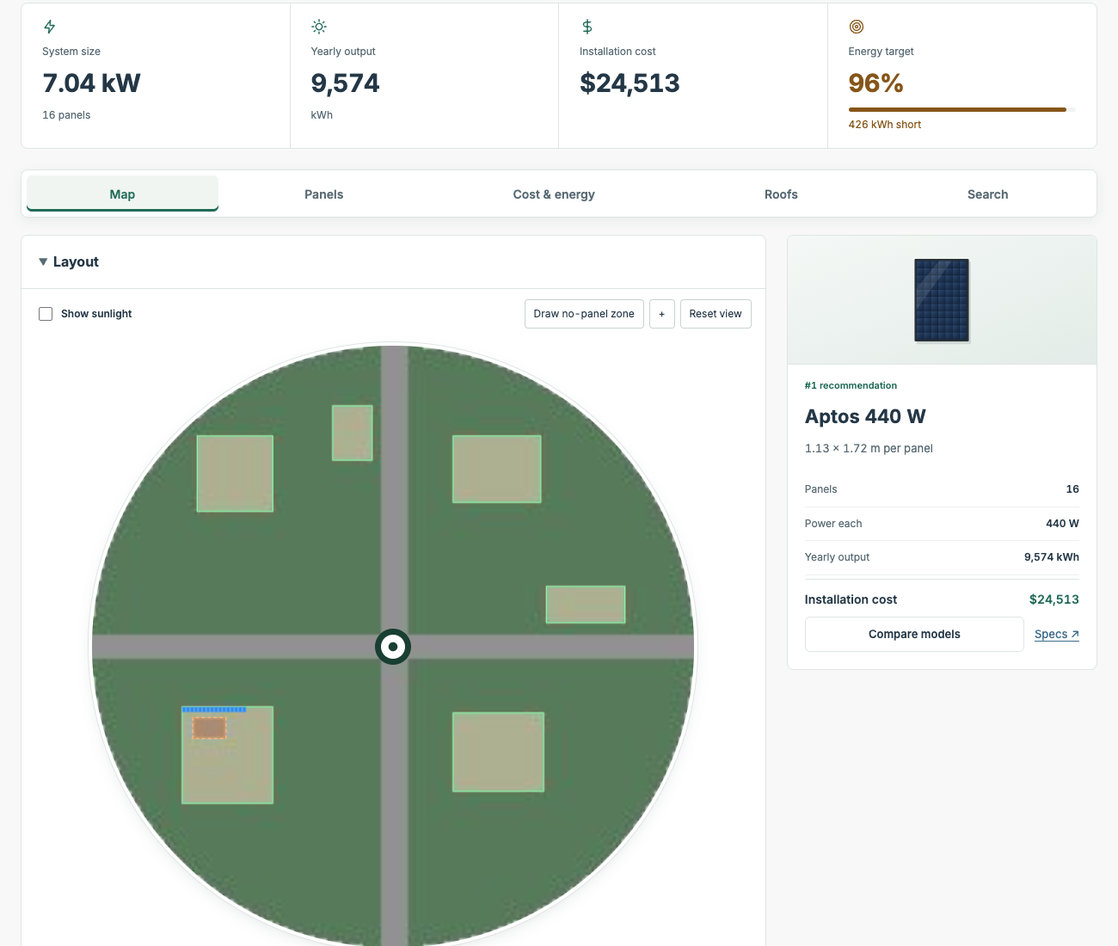
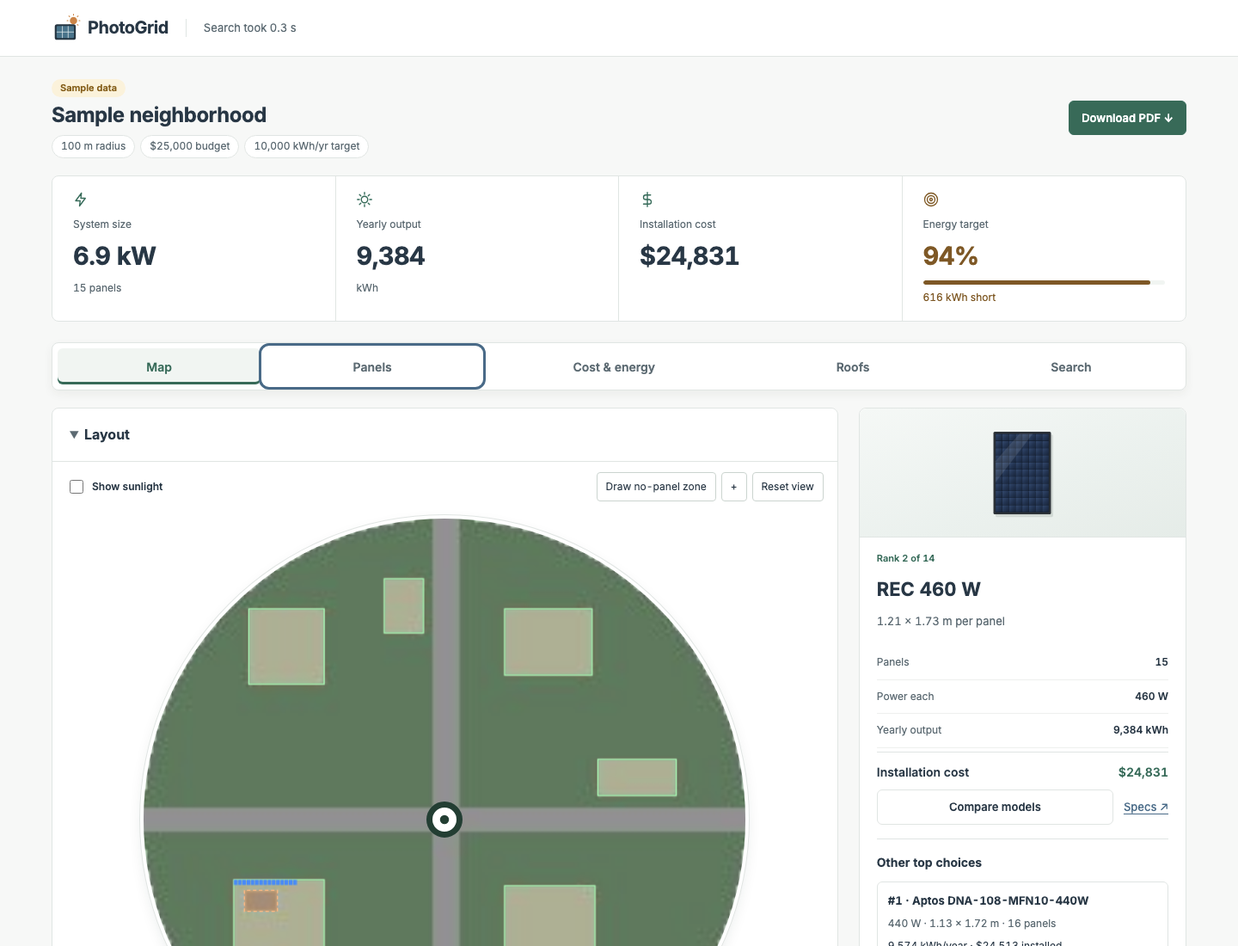
Rebrand as PhotoGrid and prepare public demo deployment

diff --git a/templates/index.html b/templates/index.html
@@ -2,9 +2,10 @@
 <html lang="en">
 <head>
   <meta charset="utf-8"><meta name="viewport" content="width=device-width, initial-scale=1">
-  <title>RoofReady · Solar planning</title>
+  <title>PhotoGrid · Solar planning</title>
+  <meta name="description" content="PhotoGrid compares real solar panels and plots layouts for your budget, roof space and energy needs.">
   <meta name="theme-color" content="#203542">
-  <link rel="icon" href="/static/roofready-mark.svg" type="image/svg+xml">
+  <link rel="icon" href="/static/photogrid-mark.svg" type="image/svg+xml">
   <!-- Inter for clearer numbers and labels; falls back to the system font offline. -->
   <link rel="preconnect" href="https://fonts.googleapis.com"><link rel="preconnect" href="https://fonts.gstatic.com" crossorigin>
   <link rel="stylesheet" href="https://fonts.googleapis.com/css2?family=Inter:wght@400;500;600;700&display=swap">
@@ -15,11 +16,12 @@
 </head>
 <body>
   <header class="site-header">
-    <a class="brand" href="/" aria-label="RoofReady home"><img src="/static/roofready-mark.svg" width="34" height="34" alt=""><span>RoofReady</span></a>
+    <a class="brand" href="/photogrid" aria-label="PhotoGrid home"><img src="/static/photogrid-mark.svg" width="34" height="34" alt=""><span>PhotoGrid</span></a>
     <span id="search-time" class="header-note" role="status" hidden></span>
   </header>
   <main>
     <section id="intro" class="intro"><h1>Plan solar for your area</h1><p>Enter an address, a budget and your yearly energy need.</p></section>
+    {% if hosted %}<p class="hint">Shared hackathon demo: use the sample area or public addresses. Saved searches are visible to other visitors and may reset.</p>{% endif %}
     <div class="workspace">
       <section class="results" aria-label="Analysis map and selected panel">
         <p id="status" class="toast" role="status" aria-live="polite"></p>
@@ -145,9 +147,9 @@
       </section>
     </div>
   </main>
-  <footer>RoofReady · Solar estimates for planning. Verify your layout with an installer.</footer>
+  <footer>PhotoGrid · Solar estimates for planning. Verify your layout with an installer.</footer>
   <div id="loading-screen" class="loading-screen" role="dialog" aria-modal="true" aria-labelledby="loading-title" aria-describedby="loading-message" tabindex="-1" hidden>
-    <div class="loading-card"><div class="loading-brand"><img src="/static/roofready-mark.svg" width="48" height="48" alt=""><span>RoofReady</span></div>
+    <div class="loading-card"><div class="loading-brand"><img src="/static/photogrid-mark.svg" width="48" height="48" alt=""><span>PhotoGrid</span></div>
       <div class="loading-track" aria-hidden="true"><span></span></div>
       <h2 id="loading-title">Checking your search area</h2><p id="loading-area"></p><p id="loading-message" role="status" aria-live="polite">Preparing your analysis…</p>
       <ol id="loading-steps"><li data-stage="0">Locate the address</li><li data-stage="1">Load aerial and sunlight data</li><li data-stage="2">Find candidate roofs</li><li data-stage="3">Compare panels and layouts</li></ol>

diff --git a/static/app.js b/static/app.js
@@ -54,8 +54,8 @@ function setDrawMode(on) {
   renderZones();
 }
 async function analyze(demo=false) {
-  window.roofreadyAddress?.close();
-  window.roofreadyLoading.start(demo ? 'Synthetic roofs and sunlight data' : $('address').value.trim(),demo);
+  window.photogridAddress?.close();
+  window.photogridLoading.start(demo ? 'Synthetic roofs and sunlight data' : $('address').value.trim(),demo);
   $('error').hidden=true; busy(true);
   toast(demo ? 'Preparing the sample area…' : 'Starting your search…',true);
   const newSearchInputs={...planInputs(), excluded_roof_ids:[], blocked_zones:[]};
@@ -71,7 +71,7 @@ async function analyze(demo=false) {
     currentJob=data.job_id;
     await poll(currentJob);
   } catch(e) { error(e.message); }
-  finally { busy(false);window.roofreadyLoading.finish(); }
+  finally { busy(false);window.photogridLoading.finish(); }
 }
 // Status checks ride out brief network blips (three retries with backoff) before giving up.
 async function jobStatus(job){
@@ -86,7 +86,7 @@ async function jobStatus(job){
 }
 async function poll(job,preserveView=false) {
   while(true) {
-    const state=await jobStatus(job); window.roofreadyLoading.update(state.message);
+    const state=await jobStatus(job); window.photogridLoading.update(state.message);
     if(state.status==='failed') throw new Error(state.message);
     if(state.status==='complete') { render(state.result,job,preserveView); toast(''); await loadHistory(); return; }
     await new Promise(resolve=>setTimeout(resolve,400));
@@ -429,7 +429,7 @@ async function loadHistory() {
   try {
     const response=await fetch('/api/history'); if(!response.ok)return;
     const runs=await response.json();
-    window.roofreadyAddress?.setRecent(runs.filter(run=>!run.demo).map(run=>run.address));
+    window.photogridAddress?.setRecent(runs.filter(run=>!run.demo).map(run=>run.address));
     $('history').replaceChildren(new Option('Choose an analysis',''));
     const when=value=>value ? new Date(value).toLocaleString(undefined,{month:'short',day:'numeric',hour:'numeric',minute:'2-digit'}) : '';
     for(const run of runs) $('history').append(new Option([run.demo?'Sample area':run.address,run.radius_meters?`${format(run.radius_meters)} m`:'',when(run.completed_at)].filter(Boolean).join(' · '),run.job_id));

diff --git a/static/loading.js b/static/loading.js
@@ -20,7 +20,7 @@
       if(i===stage)element.setAttribute('aria-current','step');else element.removeAttribute('aria-current');
     });
   }
-  window.roofreadyLoading={
+  window.photogridLoading={
     start(area,demo=false){
       clearInterval(timer);started=Date.now();stage=0;returnFocus=document.activeElement;
       document.getElementById('loading-title').textContent=demo ? 'Building the sample area' : 'Checking your search area';

diff --git a/static/address.js b/static/address.js
@@ -62,5 +62,5 @@
     else if(event.key==='Tab')close();
   });
   document.getElementById('api-key').addEventListener('change',()=>{if(document.activeElement===input)schedule();});
-  window.roofreadyAddress={close,setRecent(addresses){recent=[...new Set(addresses)];}};
+  window.photogridAddress={close,setRecent(addresses){recent=[...new Set(addresses)];}};
 })();

diff --git a/test_hosting.py b/test_hosting.py
@@ -1,0 +1,65 @@
+"""Hosted origin and hostname checks, without Google requests."""
+
+import os
+import tempfile
+import unittest
+from unittest.mock import patch
+
+from roofready_app import create_app
+
+
+class HostingTests(unittest.TestCase):
+    def setUp(self):
+        self.folder = tempfile.TemporaryDirectory()
+
+    def tearDown(self):
+        self.folder.cleanup()
+
+    def make_app(self, hostname=""):
+        with patch.dict(os.environ, {"RENDER_EXTERNAL_HOSTNAME": hostname}):
+            app = create_app(self.folder.name)
+        self.addCleanup(app.extensions["roofready_executor"].shutdown, wait=True)
+        return app
+
+    def test_local_mode_does_not_accept_public_hosts_or_forwarded_https(self):
+        client = self.make_app().test_client()
+        self.assertEqual(client.get("/health", base_url="https://evil.example").status_code, 400)
+        response = client.post(
+            "/api/address-suggestions",
+            json={"query": "x"},
+            headers={"Origin": "https://localhost", "X-Forwarded-Proto": "https"},
+        )
+        self.assertEqual(response.status_code, 403)
+
+    def test_render_https_accepts_same_origin_and_rejects_other_origins(self):
+        client = self.make_app("photogrid-example.onrender.com").test_client()
+        base = "http://photogrid-example.onrender.com"
+        headers = {"Origin": "https://photogrid-example.onrender.com", "X-Forwarded-Proto": "https"}
+        response = client.post("/api/address-suggestions", base_url=base, headers=headers, json={"query": "x"})
+        self.assertEqual(response.status_code, 400)  # Reaches input validation, no Google call.
+        for origin in ("https://evil.example", "http://photogrid-example.onrender.com", ""):
+            response = client.post(
+                "/api/address-suggestions", base_url=base, headers={**headers, "Origin": origin}, json={"query": "x"}
+            )
+            self.assertEqual(response.status_code, 403)
+
+    def test_forwarded_host_cannot_override_host_allowlist(self):
+        client = self.make_app("photogrid-example.onrender.com").test_client()
+        response = client.get(
+            "/health", base_url="http://evil.example", headers={"X-Forwarded-Host": "photogrid-example.onrender.com"}
+        )
+        self.assertEqual(response.status_code, 400)
+
+    def test_health_and_branded_route_in_hosted_mode(self):
+        client = self.make_app("photogrid-example.onrender.com").test_client()
+        base = "https://photogrid-example.onrender.com"
+        self.assertEqual(client.get("/health", base_url=base).get_json(), {"status": "ok", "app": "PhotoGrid"})
+        page = client.get("/photogrid", base_url=base)
+        self.assertEqual(page.status_code, 200)
+        self.assertIn(b"Shared hackathon demo", page.data)
+        self.assertIn(b"PhotoGrid", page.data)
+        self.assertNotIn(b"RoofReady", page.data)
+
+
+if __name__ == "__main__":
+    unittest.main()

diff --git a/roofready_app.py b/roofready_app.py
@@ -1,4 +1,4 @@
-"""Local RoofReady dashboard. Run with .venv/bin/python roofready_app.py."""
+"""Local PhotoGrid dashboard. Run with .venv/bin/python roofready_app.py."""
 
 import argparse
 from copy import deepcopy
@@ -13,6 +13,7 @@ import time
 import traceback
 
 from flask import Flask, abort, jsonify, render_template, request, send_from_directory, send_file
+from werkzeug.middleware.proxy_fix import ProxyFix
 
 from address_autocomplete import address_predictions
 from demo_roofready import run_demo
@@ -33,8 +34,15 @@ def resolve_key(supplied=""):
 
 def create_app(output_root=None):
     app = Flask(__name__)
-    app.config.update(MAX_CONTENT_LENGTH=16384, TRUSTED_HOSTS=["localhost", "127.0.0.1"])
-    output_root = Path(output_root or ROOT / "outputs")
+    render_host = os.environ.get("RENDER_EXTERNAL_HOSTNAME", "").strip()
+    trusted_hosts = ["localhost", "127.0.0.1"]
+    if render_host:
+        trusted_hosts.append(render_host)
+        # Render terminates HTTPS before forwarding to Gunicorn. Trust its one
+        # scheme header; keep host validation and the same-origin POST check.
+        app.wsgi_app = ProxyFix(app.wsgi_app, x_for=0, x_proto=1, x_host=0, x_port=0, x_prefix=0)
+    app.config.update(MAX_CONTENT_LENGTH=16384, TRUSTED_HOSTS=trusted_hosts)
+    output_root = Path(output_root or os.environ.get("PHOTOGRID_OUTPUT_ROOT") or ROOT / "outputs")
     jobs = {}
     lock = Lock()
     executor = ThreadPoolExecutor(max_workers=1)
@@ -75,9 +83,14 @@ def create_app(output_root=None):
             abort(403)
 
     @app.get("/")
+    @app.get("/photogrid")
     def index():
         key = resolve_key()
-        return render_template("index.html", configured=bool(key))
+        return render_template("index.html", configured=bool(key), hosted=bool(render_host))
+
+    @app.get("/health")
+    def health():
+        return jsonify(status="ok", app="PhotoGrid")
 
     @app.post("/api/address-suggestions")
     def suggest_addresses():
@@ -266,7 +279,7 @@ def create_app(output_root=None):
         except InputError as exc:
             return jsonify(error=str(exc)), 400
         return send_file(
-            output, mimetype="application/pdf", as_attachment=True, download_name=f"roofready-{job_id}.pdf", max_age=0
+            output, mimetype="application/pdf", as_attachment=True, download_name=f"photogrid-{job_id}.pdf", max_age=0
         )
 
     @app.post("/api/addresses/<job_id>")

diff --git a/solar_report.py b/solar_report.py
@@ -108,7 +108,7 @@ class PDFPages:
         self.draw = ImageDraw.Draw(self.image)
         self.pages.append(self.image)
         self.draw.rectangle((0, 0, self.width, 12), fill='#246b60')
-        self.draw.text((self.margin, 30), 'RoofReady  /  Solar planning report', font=font(23, True), fill='#315e82')
+        self.draw.text((self.margin, 30), 'PhotoGrid  /  Solar planning report', font=font(23, True), fill='#315e82')
         self.y = 100
 
     def text(self, text, size=25, bold=False, color='#203542'):
@@ -176,8 +176,8 @@ class PDFPages:
             save_all=True,
             append_images=self.pages[1:],
             resolution=150,
-            title='RoofReady Solar Planning Report',
-            author='RoofReady',
+            title='PhotoGrid Solar Planning Report',
+            author='PhotoGrid',
         )
         output.seek(0)
         return output

diff --git a/test_address_autocomplete.py b/test_address_autocomplete.py
@@ -109,7 +109,7 @@ class AddressRouteTests(unittest.TestCase):
         self.assertEqual(response.get_json()['suggestions'][0]['source'], 'google')
         predict.assert_called_once_with('Main', 'test-key')
         self.assertNotIn('test-key', response.get_data(as_text=True))
-        for asset in ('roofready-mark.svg', 'address.js', 'loading.js'):
+        for asset in ('photogrid-mark.svg', 'address.js', 'loading.js'):
             response = self.client.get('/static/' + asset)
             self.assertEqual(response.status_code, 200)
             response.close()

diff --git a/README.md b/README.md
@@ -1,10 +1,16 @@
-# RoofReady
+# PhotoGrid
 
 **See what solar fits on every roof in a neighborhood, within your budget, in under a minute.**
 
-Enter a U.S. address, a search radius, a budget and how much electricity you need. RoofReady pulls Google's aerial imagery and sunlight data for the whole circle, finds every roof, flags panels that are already installed, and lays out real, purchasable solar panels on the sunniest open roof space. It compares 14 rooftop panel models from a sourced catalog, shows the installation cost, bill savings, payback and CO₂ avoided, and exports a PDF report. It runs entirely on your own computer; your Google key is never stored.
+Enter a U.S. address, a search radius, a budget and how much electricity you need. PhotoGrid pulls Google's aerial imagery and sunlight data for the whole circle, finds every roof, flags panels that are already installed, and lays out real, purchasable solar panels on the sunniest open roof space. It compares 14 rooftop panel models from a sourced catalog, shows the installation cost, bill savings, payback and CO₂ avoided, and exports a PDF report. Run it locally or deploy the shared hackathon demo. Your local Google key stays in the ignored `.env` file and is never included in Git, saved searches or reports.
 
-![RoofReady results for the sample area](docs/screenshot.png)
+![PhotoGrid results for the sample area](docs/screenshot.png)
+
+[Deploy PhotoGrid on Render](https://render.com/deploy?repo=https://github.com/rishancoding/PHS-Hackathon-LHS) · [Public website setup](docs/DEPLOYMENT.md)
+
+The public website is not deployed yet. The included `render.yaml` names the
+service `photogrid`; Render assigns its final URL after you connect your account.
+The shared hosted demo starts without a Google key and supports the sample area.
 
 ## Quick start
 
@@ -15,7 +21,7 @@ cp .env.example .env            # then put your key in .env: GOOGLE_MAPS_API_KEY
 .venv/bin/python roofready_app.py
 ```
 
-Open **http://127.0.0.1:5001**. Click **Try the sample area** to explore with clearly labeled synthetic data and no Google requests, or enter an address and click **Find roofs and panels**.
+Open **http://127.0.0.1:5001/photogrid** (the original `/` address also works). Click **Try the sample area** to explore with clearly labeled synthetic data and no Google requests, or enter an address and click **Find roofs and panels**.
 
 Requirements: Python 3.10 or newer, and a Google Cloud key with the **Geocoding**, **Solar** and **Places (New)** APIs enabled. Google Maps Platform is billed per request; restrict the key to those three APIs and set a daily quota and budget alert in Google Cloud. To use another port: `.venv/bin/python roofready_app.py --port 5002`. Stop the server with Control+C.
 
@@ -34,7 +40,7 @@ Other features: address suggestions as you type, recent searches as suggestions,
 ## How it works
 
 1. **Locate:** Google Geocoding resolves the address and checks it is in the lower 48 states or DC.
-2. **Download:** the Google Solar API returns four layers for the circle: aerial imagery, a rooftop mask, yearly sunlight (kWh/kW/year) and elevation. If Google has no high-quality imagery for the area, RoofReady retries once with medium quality and says so under the map. A repeat search of the same center and radius reuses the saved layers, so it takes about 3 seconds instead of about 40.
+2. **Download:** the Google Solar API returns four layers for the circle: aerial imagery, a rooftop mask, yearly sunlight (kWh/kW/year) and elevation. If Google has no high-quality imagery for the area, PhotoGrid retries once with medium quality and says so under the map. A repeat search of the same center and radius reuses the saved layers, so it takes about 3 seconds instead of about 40.
 3. **Find roofs:** the layers are aligned on a local meter grid and clipped to the circle; connected regions of Google's rooftop mask become candidate roofs (10 m² minimum), ranked by theoretical potential.
 4. **Flag existing panels:** a color-and-texture check marks slate-blue, panel-shaped areas on roofs so new panels avoid them.
 5. **Place panels:** for each of the 14 rooftop models, the planner fills the sunniest roofs first. On each roof it aligns a grid with the building, tries both module orientations with 0.2 m gaps, keeps panels fully inside the outline and away from flagged and blocked areas, and fills the sunniest spots first using the per-pixel sunlight. It stops at your energy target, budget, panel-area cap or the available space.
@@ -56,7 +62,7 @@ Timing: a first live search takes about 40 seconds, about 93% of it downloading 
 
 ## Data, privacy and saved searches
 
-The server runs only on localhost and rejects requests from other sites. API keys are used only for the request that needs them and never written to job state, results or logs (unexpected errors are logged to the terminal with the key removed). Searches are saved under `outputs/` (ignored by Git) with the downloaded layers, so they reopen and re-plan without new requests. **Reuse saved imagery** (under Assumptions, on by default) can be turned off for a fresh download; check Google's terms on how long imagery may be kept. Deleting a folder in `outputs/` removes that saved search.
+The local server accepts only localhost and rejects POST requests from other sites. The optional Render deployment accepts its assigned hostname and retains the same-origin requirement. API keys are used only for the request that needs them and never written to job state, results or logs (unexpected errors are logged to the terminal with the key removed). Searches are saved under `outputs/` (ignored by Git) with the downloaded layers, so they reopen and re-plan without new requests. **Reuse saved imagery** (under Assumptions, on by default) can be turned off for a fresh download; check Google's terms on how long imagery may be kept. Deleting a folder in `outputs/` removes that saved search.
 
 ## Development
 

diff --git a/docs/PITCH.md b/docs/PITCH.md
@@ -1,18 +1,18 @@
-# RoofReady pitch and demo plan
+# PhotoGrid pitch and demo plan
 
 ## One-line pitch
 
-RoofReady shows what solar fits on every roof in a neighborhood, using real panels you can buy, within your budget, and what it would save, in under a minute.
+PhotoGrid shows what solar fits on every roof in a neighborhood, using real panels you can buy, within your budget, and what it would save, in under a minute.
 
 ## Why it matters
 
 - Most homeowners never get past "is my roof any good for solar?" Quotes take days and cover one house.
-- RoofReady answers it for a whole area at once: every roof, existing panels, a real layout, cost, savings and CO₂.
+- PhotoGrid answers it for a whole area at once: every roof, existing panels, a real layout, cost, savings and CO₂.
 - Average U.S. home: about 10,400 kWh a year (EIA). The default 10,000 kWh target is roughly one home.
 
 ## How it differs from Google Project Sunroof
 
-| | Project Sunroof | RoofReady |
+| | Project Sunroof | PhotoGrid |
 | --- | --- | --- |
 | Scope | One building | Every roof in a radius up to 1 km |
 | Panels | Generic | 14 real catalog models with datasheets and prices |
@@ -29,7 +29,7 @@ RoofReady shows what solar fits on every roof in a neighborhood, using real pane
 - Residential panels change the answer: with a $25,000 budget and 10,000 kWh target, the top three (Silfab, Aptos, REC) meet the target with about 16 panels at roughly $3.50/W installed; the old off-grid panels all fell short at about $4/W.
 - Sample area (synthetic, California prices): about $3,100 a year in bill savings, about an 8-year simple payback, about 6 t CO₂ avoided per year.
 - Existing-panel detection on 48 hand-labeled roofs from 7 sites: 73% correct (68% precision, 65% recall). Say the labels were made by eye.
-- 79 automated tests run offline in about 3 seconds; API keys are never written to disk or logs.
+- 83 automated tests run offline; API keys are excluded from saved results, reports and logs; the local key lives in an ignored `.env` file.
 
 ## Three-minute demo script
 
@@ -39,7 +39,7 @@ RoofReady shows what solar fits on every roof in a neighborhood, using real pane
 4. **Panels (30 s):** scroll the cards; open **Compare two models** and point at the ✓ Better marks.
 5. **Cost & energy (20 s):** installation cost vs budget, then the Impact card: bill savings, payback, CO₂.
 6. **PDF (10 s):** **Download PDF**.
-7. **Close (15 s):** one honest limit (it doesn't detect rooftop equipment or slope, which is why zones exist), the accuracy number, and "runs locally; 79 offline tests".
+7. **Close (15 s):** one honest limit (it doesn't detect rooftop equipment or slope, which is why zones exist), the accuracy number, and "runs locally; 83 offline tests".
 
 Show a shortfall case on purpose if time allows: lower the budget on the Search tab and click **Update plan**.
 
@@ -56,7 +56,7 @@ Show a shortfall case on purpose if time allows: lower the budget on the Search 
 - *Why not machine learning?* We needed something explainable and measurable in a weekend; we measured it (73%) and know where it fails. A trained model is the next step.
 - *Where do the numbers come from?* Every source is listed on the Cost & energy tab under Methods & assumptions.
 - *Does it cost money?* Each live search costs a few Google API calls; repeat searches reuse saved imagery.
-- *Is my data safe?* It runs on this laptop; nothing leaves except the Google requests, and the key is never saved.
+- *Is my data safe?* It runs on this laptop; nothing leaves except the Google requests, and the key is excluded from saved results and reports.
 
 ## Night-before checklist
 

diff --git a/docs/DEPLOYMENT.md b/docs/DEPLOYMENT.md
@@ -1,0 +1,38 @@
+# Publish PhotoGrid
+
+The repository includes a Render Blueprint for the full Python app. It has not
+been deployed yet; creating the public service requires your Render/GitHub login.
+
+1. Open [Deploy PhotoGrid on Render](https://render.com/deploy?repo=https://github.com/rishancoding/PHS-Hackathon-LHS).
+2. Sign in, connect this GitHub repository, and deploy the Blueprint from **main**.
+   Keep the service name **photogrid** and the **Free** plan from `render.yaml`.
+3. After the build succeeds, open the service's assigned `onrender.com` URL.
+   Render assigns the final hostname; it may include a suffix. Keep `photogrid`
+   in the service name. The app also works at `/photogrid` on that hostname.
+4. Click **Try the sample area** to test roof detection, panel previews, no-panel
+   zones, model comparisons and the PDF without Google requests.
+
+The Blueprint installs `requirements-hosted.txt` and runs Gunicorn with one
+worker and four threads. One worker is required because job state is held in
+memory. The app accepts Render's assigned hostname, handles HTTPS forwarded by
+Render, and still rejects POST requests from other origins. `/health` is its
+health-check endpoint.
+
+## Keys and saved searches
+
+Your local `.env` stays ignored and is not uploaded. The Blueprint leaves
+`GOOGLE_MAPS_API_KEY` empty. A visitor who wants a live search must supply a Google
+key in the existing input; it is used for that request and excluded from saved
+results and reports. Do not put your personal key into the shared public demo.
+
+This is a shared hackathon demo: saved searches and reports are accessible to
+other visitors. Use the sample area or public addresses. The page shows this
+notice when hosted. Free hosting has ephemeral files; saved imagery and searches
+can disappear after restarts or redeploys. It also sleeps when idle, so open it
+before judging and keep a local demo and downloaded PDF ready. Larger live
+searches can exceed the free service's memory; the sample is the best first check.
+
+Provider references: [Flask deployment](https://render.com/docs/deploy-flask),
+[Blueprint configuration](https://render.com/docs/blueprint-spec),
+[free service limitations](https://render.com/docs/free), and
+[Render environment variables](https://render.com/docs/environment-variables).

diff --git a/CLAUDE.md b/CLAUDE.md
@@ -6,7 +6,7 @@ This file provides guidance to Claude Code (claude.ai/code) when working with co
 
 ```sh
 python3 -m venv .venv && .venv/bin/python -m pip install -r requirements.txt   # setup
-.venv/bin/python roofready_app.py                 # dashboard at http://127.0.0.1:5001 (--port to change)
+.venv/bin/python roofready_app.py                 # PhotoGrid at http://127.0.0.1:5001/photogrid (--port to change)
 .venv/bin/python -m unittest -v                   # all tests (offline; no API key needed)
 .venv/bin/python -m unittest -v test_panel_plan   # one test module
 .venv/bin/python -m unittest test_panel_plan.SomeTestCase.test_name   # one test
@@ -31,6 +31,6 @@ Pipeline, in dependency order:
 The central data structure is the `result` dict. Each stage mutates it in place and it is persisted as `outputs/<job_id>/results.json`. When you add fields, account for older saved analyses: on startup the app reloads every folder in `outputs/` that contains `results.json`.
 
 **`roofready_app.py`** uses a `create_app(output_root)` factory, which tests call with a temp directory. Jobs live in an in-memory dict guarded by a `Lock`. A single-worker `ThreadPoolExecutor` enforces one running analysis at a time, and the frontend polls `/api/jobs/<id>`. Replanning (`/api/plan`), roof-address lookup, and PDF export reuse saved results without new Solar requests. Security invariants to preserve:
-- POST requests must carry a same-origin `Origin` header, and `TRUSTED_HOSTS` is limited to localhost.
+- POST requests must carry a same-origin `Origin` header. `TRUSTED_HOSTS` accepts localhost and, when deployed, the exact `RENDER_EXTERNAL_HOSTNAME`. Only Render mode trusts one forwarded scheme header; forwarded host headers remain untrusted. See `docs/DEPLOYMENT.md` and `render.yaml` for the shared demo setup.
 - API keys are passed only as worker arguments. They are never stored in job state, results, or output files.
 - `/results/<job>/<file>` serves only an allowlist of filenames.
